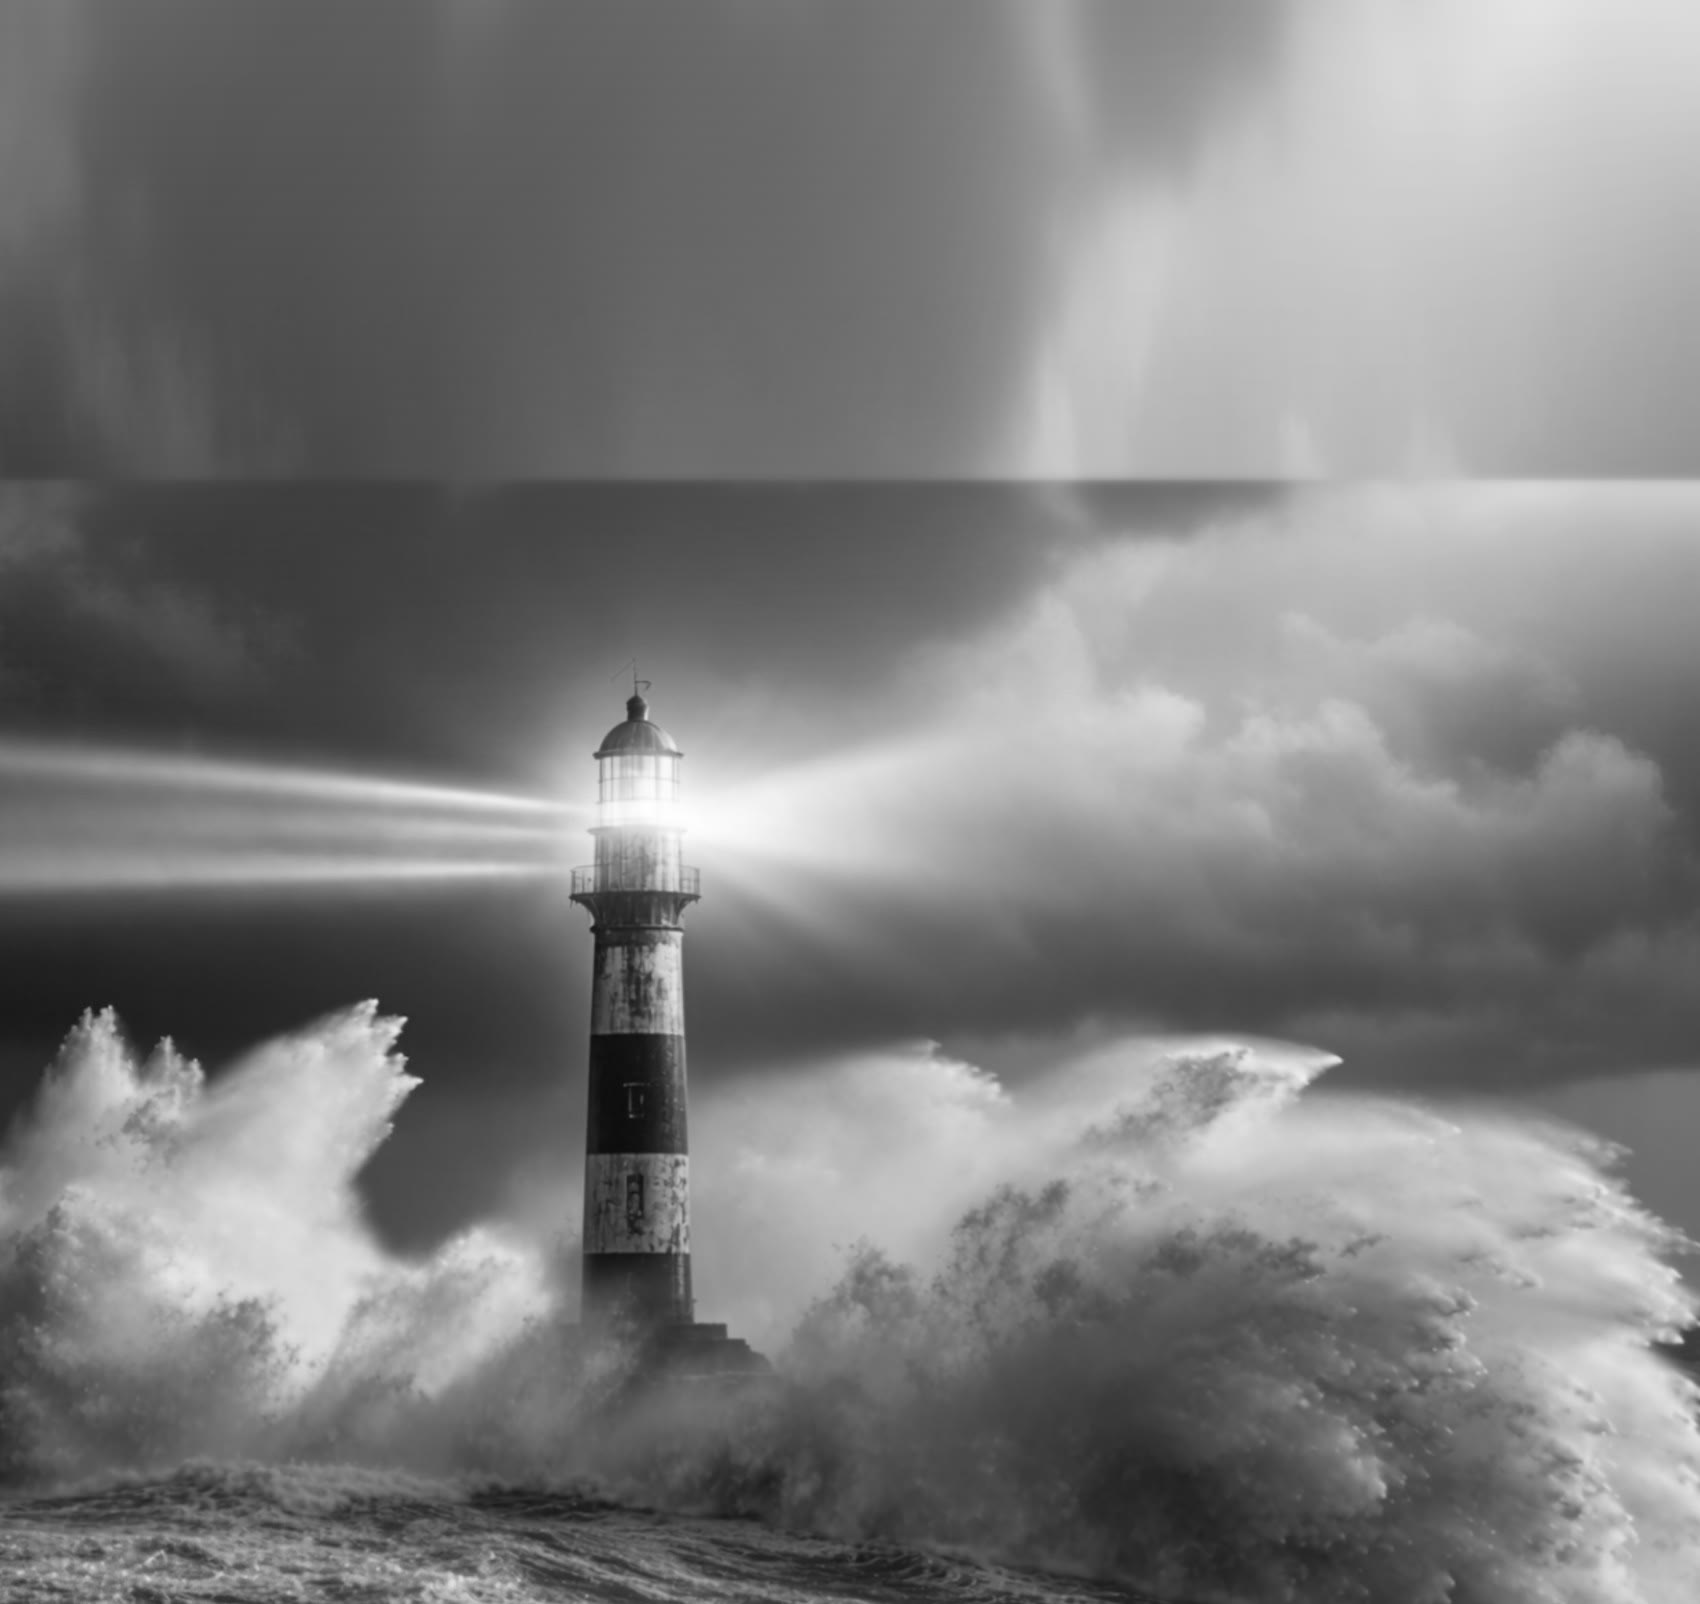
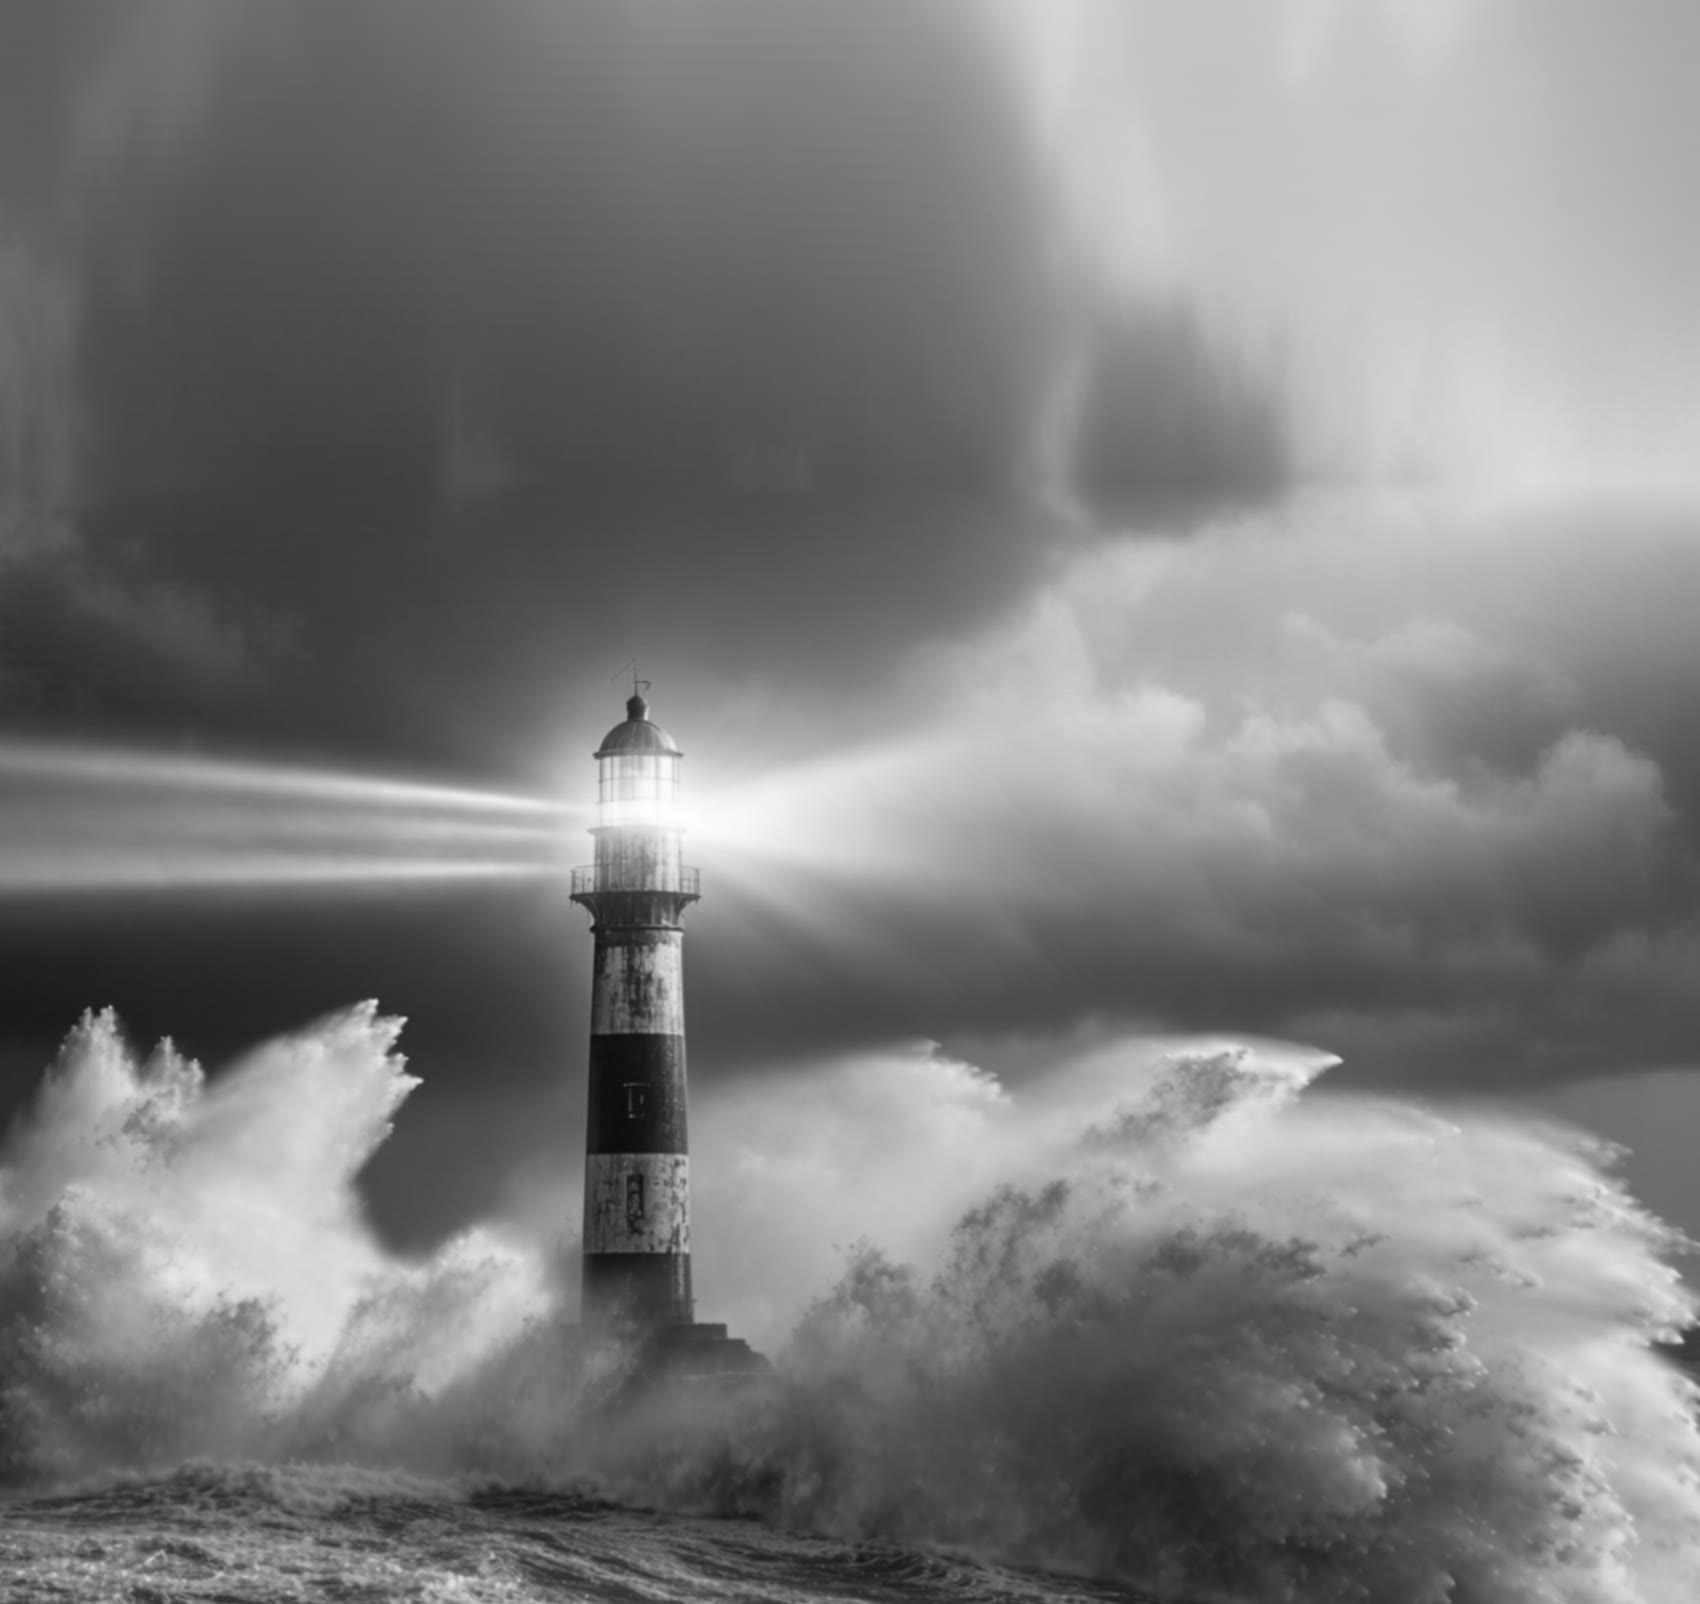
Bande grise + menu déroulant, vidéo sans panneau titre, ciel prolongé

diff --git a/index.html b/index.html
@@ -30,7 +30,7 @@
   --line-dark:rgba(255,255,255,.14);
   --dark:rgba(16,16,15,.92);
   --r:6px;
-  --nav-h:72px;
+  --nav-h:112px;
   --col:calc(100% / 7);
   font-size:16px;
 }
@@ -76,55 +76,55 @@ button{font:inherit;color:inherit;background:none;border:0;cursor:pointer}
 .header-sky img{position:fixed;top:0;left:0;width:100%;height:100vh;height:100dvh;object-fit:cover;object-position:50% 72%}
 .site-header > .wrap{position:relative;z-index:1}
 .site-header .wrap{display:flex;align-items:stretch;height:var(--nav-h)}
-.brand{display:flex;align-items:center;padding:0 44px 0 48px;flex:0 0 auto;background:rgba(255,255,255,.96)}
-.brand img{height:26px;width:auto}
-.nav{display:flex;margin-left:auto;align-items:stretch;background:rgba(255,255,255,.96)}
-.nav > li{position:relative;display:flex;border-left:1px solid var(--line)}
-.nav > li:first-child{border-left:0}
-.nav > li > a,.nav > li > button{
-  display:flex;align-items:center;gap:8px;padding:0 28px;height:100%;
-  font-size:15px;font-weight:400;color:#2b2a28;letter-spacing:.005em;white-space:nowrap;
-  transition:color .2s,background .2s;
+.brand{display:flex;align-items:center;padding:0 48px;flex:0 0 auto;background:rgba(255,255,255,.96)}
+.brand img{height:30px;width:auto}
+/* bouton Menu (bloc blanc à droite) */
+.menu-btn{
+  margin-left:auto;display:flex;align-items:center;gap:14px;padding:0 40px;
+  background:rgba(255,255,255,.96);color:var(--ink);font-size:15px;font-weight:500;letter-spacing:.08em;text-transform:uppercase;
+  transition:color .2s;
 }
-.nav > li > a:hover,.nav > li > button:hover,.nav > li:focus-within > button{color:var(--red)}
-.chev{width:8px;height:8px;flex:0 0 8px}
-.chev path{fill:none;stroke:currentColor;stroke-width:1.5;stroke-linecap:round;stroke-linejoin:round}
-.nav .search{width:var(--nav-h);background:var(--ink);color:#fff;display:flex;align-items:center;justify-content:center;border-left:0}
-.nav .search:hover{background:var(--red)}
-.nav .search svg{width:16px;height:16px}
-.nav .search svg *{fill:none;stroke:currentColor;stroke-width:1.6;stroke-linecap:round}
-/* sous-menus */
-.sub{
-  position:absolute;top:100%;left:0;min-width:240px;padding:14px 0;
-  background:#fff;border:1px solid var(--line);border-top:2px solid var(--red);border-radius:0 0 var(--r) var(--r);
-  box-shadow:0 18px 40px rgba(0,0,0,.10);
-  opacity:0;visibility:hidden;transform:translateY(6px);transition:opacity .18s,transform .18s,visibility .18s;
+.menu-btn:hover{color:var(--red)}
+.menu-btn svg{width:22px;height:22px}
+.menu-btn svg *{stroke:currentColor;stroke-width:1.6;stroke-linecap:round}
+.menu-btn .x{display:none}
+.menu-btn[aria-expanded="true"] .x{display:block}
+.menu-btn[aria-expanded="true"] .bars{display:none}
+/* panneau déroulant */
+.menu-panel{
+  position:absolute;right:0;top:100%;width:min(440px,100vw);max-height:calc(100vh - var(--nav-h));overflow:auto;
+  background:#fff;border-top:2px solid var(--red);border-radius:0 0 var(--r) var(--r);
+  box-shadow:0 30px 60px rgba(0,0,0,.22);z-index:60;
 }
-.nav > li:hover .sub,.nav > li:focus-within .sub{opacity:1;visibility:visible;transform:none}
-.sub a{display:block;padding:9px 24px;font-size:14px;color:var(--body)}
-.sub a:hover{color:var(--red);background:var(--paper-soft)}
-.sub .soon{color:var(--muted);font-size:11px;letter-spacing:.08em;text-transform:uppercase;padding:6px 24px 0}
-.burger{display:none}
-.mobile-nav{display:none}
+.menu-panel[hidden]{display:none}
+.menu-list{list-style:none;padding:12px 0}
+.menu-list > li{border-bottom:1px solid var(--line)}
+.menu-list > li:last-child{border-bottom:0}
+.menu-list > li > a,.menu-list > li > span{display:block;padding:15px 36px;font-size:18px;color:var(--ink)}
+.menu-list > li > span{padding-bottom:6px;color:var(--muted);font-size:12.5px;letter-spacing:.12em;text-transform:uppercase;font-weight:500}
+.menu-list > li > a:hover{color:var(--red)}
+.menu-list ul{list-style:none;padding:0 0 12px}
+.menu-list ul a{display:block;padding:8px 36px;font-size:16px;color:var(--ink)}
+.menu-list ul a:hover{color:var(--red)}
+.menu-foot{display:flex;align-items:center;gap:20px;padding:18px 36px 22px;background:var(--paper-soft);border-top:1px solid var(--line)}
+.menu-foot .lang{display:flex;gap:14px;font-size:14px;font-weight:500}
+.menu-foot .lang a{color:var(--muted)}
+.menu-foot .lang a.on,.menu-foot .lang a:hover{color:var(--ink)}
+.menu-foot form{margin-left:auto;display:flex;align-items:center;border:1px solid var(--line);border-radius:3px;background:#fff}
+.menu-foot input{border:0;background:none;font:inherit;font-size:14px;padding:9px 12px;width:150px;outline:none}
+.menu-foot button{width:40px;height:38px;background:var(--ink);color:#fff;display:flex;align-items:center;justify-content:center;border-radius:0 3px 3px 0}
+.menu-foot button:hover{background:var(--red)}
+.menu-foot button svg{width:15px;height:15px}
+.menu-foot button svg *{fill:none;stroke:currentColor;stroke-width:1.6;stroke-linecap:round}
 
 /* ---------- Hero vidéo ----------
-   Le teaser est construit sur une grille en 4 cadrans (ligne verticale à 50 %,
-   horizontale à 53,9 %). Le panneau titre vient se caler exactement sur le
-   cadran bas-droit de la vidéo. */
+   Le teaser porte déjà le titre « Critical Technology / Human Chemistry » :
+   rien n'est superposé, le H1 est seulement lu par les moteurs / lecteurs d'écran. */
 .hero{position:relative}
 .hero .wrap{position:relative}
 .video-box{position:relative}
 .hero video{width:100%;aspect-ratio:16/9;height:auto;object-fit:cover;background:#0b0b0b}
-.hero-title{
-  position:absolute;left:50%;top:53.9%;right:0;bottom:0;
-  background:#fff;padding:32px 56px 32px 88px;
-  display:flex;flex-direction:column;justify-content:center;
-}
-.hero-title h1{
-  font-size:clamp(30px,3.6vw,52px);font-weight:400;line-height:1.08;letter-spacing:-.015em;
-  text-wrap:balance;
-}
-.hero-title h1 em{font-style:normal;color:var(--red)}
+.sr-only{position:absolute;width:1px;height:1px;overflow:hidden;clip:rect(0 0 0 0);white-space:nowrap}
 /* ---------- Panneaux ---------- */
 /* Les panneaux blancs sont en retrait (6 colonnes sur 7) et espacés :
    le phare reste visible sur les côtés et entre les sections. */
@@ -247,37 +247,18 @@ button{font:inherit;color:inherit;background:none;border:0;cursor:pointer}
 }
 
 /* ---------- Responsive ---------- */
-@media (max-width:1180px){
-  .nav > li > a,.nav > li > button{padding:0 18px;font-size:14px}
-  .brand{padding:0 28px}
-}
 @media (max-width:980px){
   :root{--nav-h:64px}
-  .brand{padding:0 20px}.brand img{height:22px}
-  .nav{display:none}
-  .burger{display:flex;align-items:center;justify-content:center;width:var(--nav-h);margin-left:auto;background:var(--ink);color:#fff}
-  .burger svg{width:22px;height:22px}
-  .burger svg *{stroke:currentColor;stroke-width:1.6;stroke-linecap:round}
-  .burger .x{display:none}
-  .burger[aria-expanded="true"] .x{display:block}
-  .burger[aria-expanded="true"] .bars{display:none}
-  .mobile-nav{
-    display:none;position:fixed;inset:var(--nav-h) 0 0 0;z-index:49;background:#fff;
-    padding:24px;overflow:auto;
-  }
-  .mobile-nav.open{display:block}
-  .mobile-nav a,.mobile-nav summary{display:block;padding:16px 4px;border-bottom:1px solid var(--line);font-size:18px;list-style:none}
-  .mobile-nav summary::-webkit-details-marker{display:none}
-  .mobile-nav details a{font-size:15px;color:var(--body);padding:12px 20px}
-  .brand{background:rgba(255,255,255,.96)}
+  .brand{padding:0 20px}.brand img{height:24px}
+  .menu-btn{padding:0 22px;gap:10px}
+  .menu-btn span{display:none}
+  .menu-panel{position:fixed;inset:var(--nav-h) 0 0 0;width:auto;max-height:none;border-radius:0}
   .panel{margin:40px 0}
   .panel > .wrap{width:calc(100% - 24px)}
   .panel .inner{padding-left:24px;padding-right:24px}
   .site-footer{margin-top:40px}
   .global .lower{padding-right:0}
   .global .find{border-radius:0}
-  .hero-title{position:static;padding:36px 24px 40px}
-  .hero-title h1{font-size:clamp(28px,7.5vw,40px)}
   .inner{padding-left:24px;padding-right:24px}
   .grid-lines{display:none}
   .section{padding:64px 0 72px}
@@ -319,72 +300,33 @@ button{font:inherit;color:inherit;background:none;border:0;cursor:pointer}
     <a class="brand" href="#top" aria-label="Descote — home">
       <img src="assets/logo-new.png" alt="descote">
     </a>
-    <ul class="nav" role="list">
-      <li>
-        <button type="button" aria-haspopup="true">What we do
-          <svg class="chev" viewBox="0 0 8 8" aria-hidden="true"><path d="M1.5 3l2.5 2.5L6.5 3"/></svg>
-        </button>
-        <div class="sub">
-          <a href="#challenge">Fit for challenge</a>
-          <a href="#purpose">Fit for purpose</a>
-          <a href="#human">Human chemistry</a>
-          <p class="soon" lang="fr">Sous-menu à définir</p>
-        </div>
-      </li>
-      <li><a href="#industries">Industry</a></li>
-      <li><a href="#">Case studies</a></li>
-      <li><a href="#">After sales</a></li>
-      <li>
-        <button type="button" aria-haspopup="true">About us
-          <svg class="chev" viewBox="0 0 8 8" aria-hidden="true"><path d="M1.5 3l2.5 2.5L6.5 3"/></svg>
-        </button>
-        <div class="sub">
-          <a href="#human">Human chemistry</a>
-          <a href="#global">Our network</a>
-          <a href="https://www.descote.com/join-us/">Join us</a>
-          <p class="soon" lang="fr">Sous-menu à définir</p>
-        </div>
-      </li>
-      <li>
-        <button type="button" aria-haspopup="true">Resources
-          <svg class="chev" viewBox="0 0 8 8" aria-hidden="true"><path d="M1.5 3l2.5 2.5L6.5 3"/></svg>
-        </button>
-        <div class="sub">
-          <a href="#">Documentation</a>
-          <a href="#">Certifications</a>
-          <a href="#">News</a>
-          <p class="soon" lang="fr">Sous-menu à définir</p>
-        </div>
-      </li>
-      <li><a href="https://www.descote.com/inquiry/">Inquiry</a></li>
-      <li>
-        <button type="button" aria-haspopup="true" aria-label="Language: English">EN
-          <svg class="chev" viewBox="0 0 8 8" aria-hidden="true"><path d="M1.5 3l2.5 2.5L6.5 3"/></svg>
-        </button>
-        <div class="sub" style="min-width:120px">
-          <a href="#">EN</a>
-          <a href="#">FR</a>
-        </div>
-      </li>
-      <li><a class="search" href="#" aria-label="Search">
-        <svg viewBox="0 0 16 16" aria-hidden="true"><circle cx="7" cy="7" r="5"/><path d="M11 11l3.5 3.5"/></svg>
-      </a></li>
-    </ul>
-    <button class="burger" type="button" aria-label="Menu" aria-expanded="false" aria-controls="mobile-nav">
+    <button class="menu-btn" id="menu-btn" type="button" aria-expanded="false" aria-controls="menu-panel">
+      <span>Menu</span>
       <svg viewBox="0 0 22 22" aria-hidden="true"><path class="bars" d="M3 6h16M3 11h16M3 16h16"/><path class="x" d="M5 5l12 12M17 5L5 17"/></svg>
     </button>
+    <nav class="menu-panel" id="menu-panel" hidden aria-label="Menu">
+      <ul class="menu-list">
+        <li><span>What we do</span>
+          <ul><li><a href="#challenge">Fit for challenge</a></li><li><a href="#purpose">Fit for purpose</a></li><li><a href="#human">Human chemistry</a></li></ul>
+        </li>
+        <li><a href="#industries">Industry</a></li>
+        <li><a href="#">Case studies</a></li>
+        <li><a href="#">After sales</a></li>
+        <li><span>About us</span>
+          <ul><li><a href="#human">Human chemistry</a></li><li><a href="#global">Our network</a></li><li><a href="https://www.descote.com/join-us/">Join us</a></li></ul>
+        </li>
+        <li><span>Resources</span>
+          <ul><li><a href="#">Documentation</a></li><li><a href="#">Certifications</a></li><li><a href="#">News</a></li></ul>
+        </li>
+        <li><a href="https://www.descote.com/inquiry/">Inquiry</a></li>
+      </ul>
+      <div class="menu-foot">
+        <div class="lang" aria-label="Language"><a class="on" href="#">EN</a><a href="#">FR</a></div>
+        <form role="search" onsubmit="return false"><input type="search" placeholder="Search" aria-label="Search"><button type="submit" aria-label="Search"><svg viewBox="0 0 16 16" aria-hidden="true"><circle cx="7" cy="7" r="5"/><path d="M11 11l3.5 3.5"/></svg></button></form>
+      </div>
+    </nav>
   </div>
 </header>
-<nav class="mobile-nav" id="mobile-nav" aria-label="Menu">
-  <details><summary>What we do</summary><a href="#challenge">Fit for challenge</a><a href="#purpose">Fit for purpose</a><a href="#human">Human chemistry</a></details>
-  <a href="#industries">Industry</a>
-  <a href="#">Case studies</a>
-  <a href="#">After sales</a>
-  <details><summary>About us</summary><a href="#human">Human chemistry</a><a href="#global">Our network</a><a href="https://www.descote.com/join-us/">Join us</a></details>
-  <details><summary>Resources</summary><a href="#">Documentation</a><a href="#">Certifications</a><a href="#">News</a></details>
-  <a href="https://www.descote.com/inquiry/">Inquiry</a>
-  <a href="#">EN / FR</a>
-</nav>
 
 <main id="top">
 
@@ -396,9 +338,7 @@ button{font:inherit;color:inherit;background:none;border:0;cursor:pointer}
           <source src="assets/teaser-720.mp4" type="video/mp4">
         </video>
       </div>
-      <div class="hero-title">
-        <h1><em>Critical</em> technology,<br>Human <em>chemistry</em></h1>
-      </div>
+      <h1 class="sr-only">Critical technology, Human chemistry</h1>
     </div>
   </section>
 
@@ -539,17 +479,17 @@ button{font:inherit;color:inherit;background:none;border:0;cursor:pointer}
 
 <script>
 (function(){
-  // --- Menu mobile ---
-  var burger=document.querySelector('.burger'), mnav=document.getElementById('mobile-nav');
-  if(burger&&mnav){
-    burger.addEventListener('click',function(){
-      var open=mnav.classList.toggle('open');
-      burger.setAttribute('aria-expanded',open?'true':'false');
-      document.body.style.overflow=open?'hidden':'';
-    });
-    mnav.addEventListener('click',function(e){
-      if(e.target.tagName==='A'){mnav.classList.remove('open');burger.setAttribute('aria-expanded','false');document.body.style.overflow='';}
-    });
+  // --- Menu déroulant ---
+  var mbtn=document.getElementById('menu-btn'), panel=document.getElementById('menu-panel');
+  function setMenu(open){
+    panel.hidden=!open; mbtn.setAttribute('aria-expanded',open?'true':'false');
+    if(window.innerWidth<=980){document.body.style.overflow=open?'hidden':'';}
+  }
+  if(mbtn&&panel){
+    mbtn.addEventListener('click',function(){setMenu(panel.hidden);});
+    panel.addEventListener('click',function(e){ if(e.target.tagName==='A') setMenu(false); });
+    document.addEventListener('keydown',function(e){ if(e.key==='Escape'&&!panel.hidden){setMenu(false);mbtn.focus();} });
+    document.addEventListener('click',function(e){ if(!panel.hidden&&!panel.contains(e.target)&&!mbtn.contains(e.target)) setMenu(false); });
   }
 
   // --- Apparition douce au scroll ---
@@ -558,6 +498,7 @@ button{font:inherit;color:inherit;background:none;border:0;cursor:pointer}
     document.documentElement.style.scrollBehavior='auto';
     var m=/[?&]y=(\d+)/.exec(location.search); // capture : simule un scroll pour les captures headless
     if(m){document.querySelector('main').style.marginTop='-'+m[1]+'px';}
+    if(/[?&]menu/.test(location.search)&&typeof setMenu==='function'){setMenu(true);}
   }
   var els=document.querySelectorAll('.reveal');
   if(!reduce&&'IntersectionObserver' in window){
